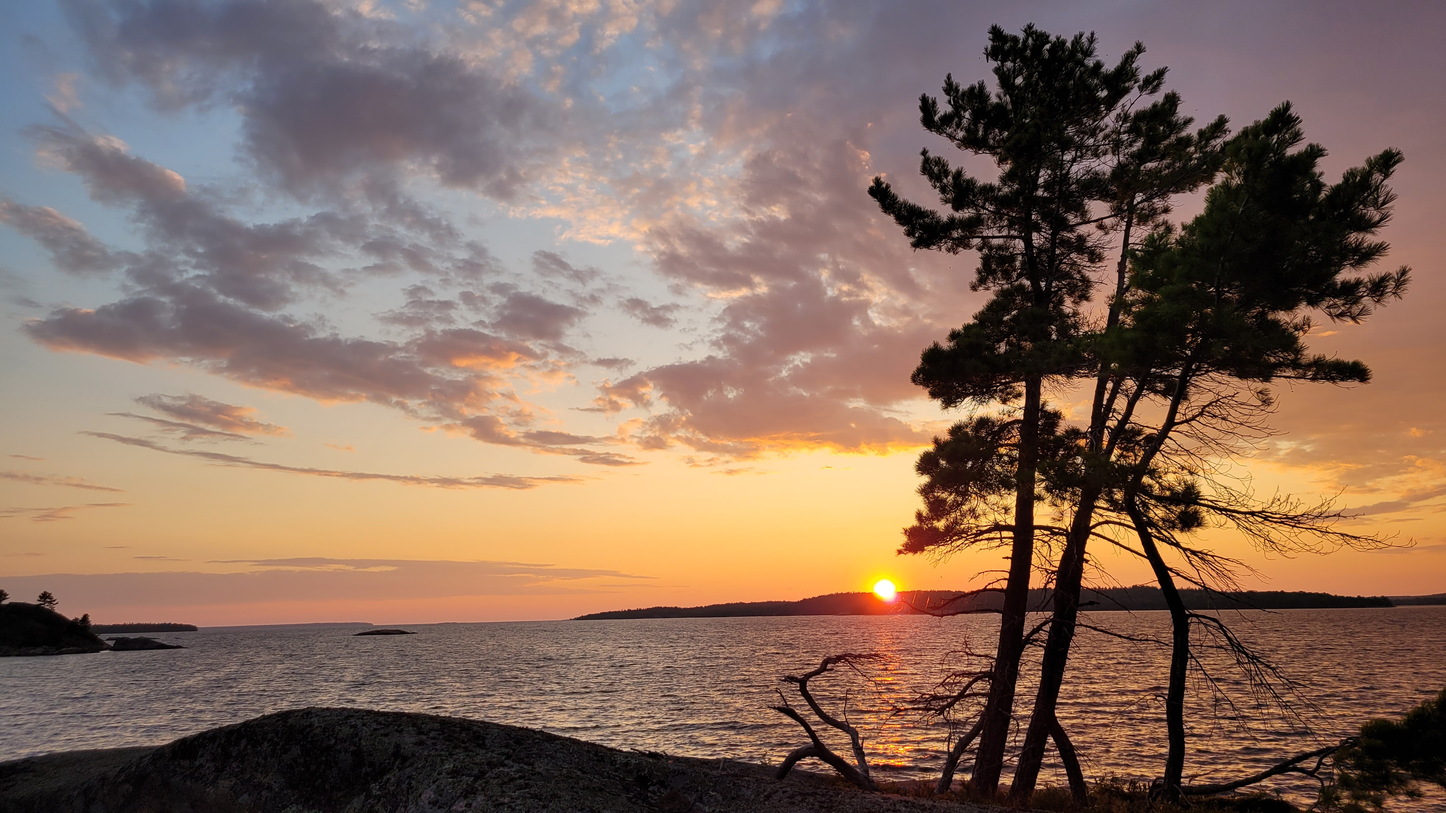
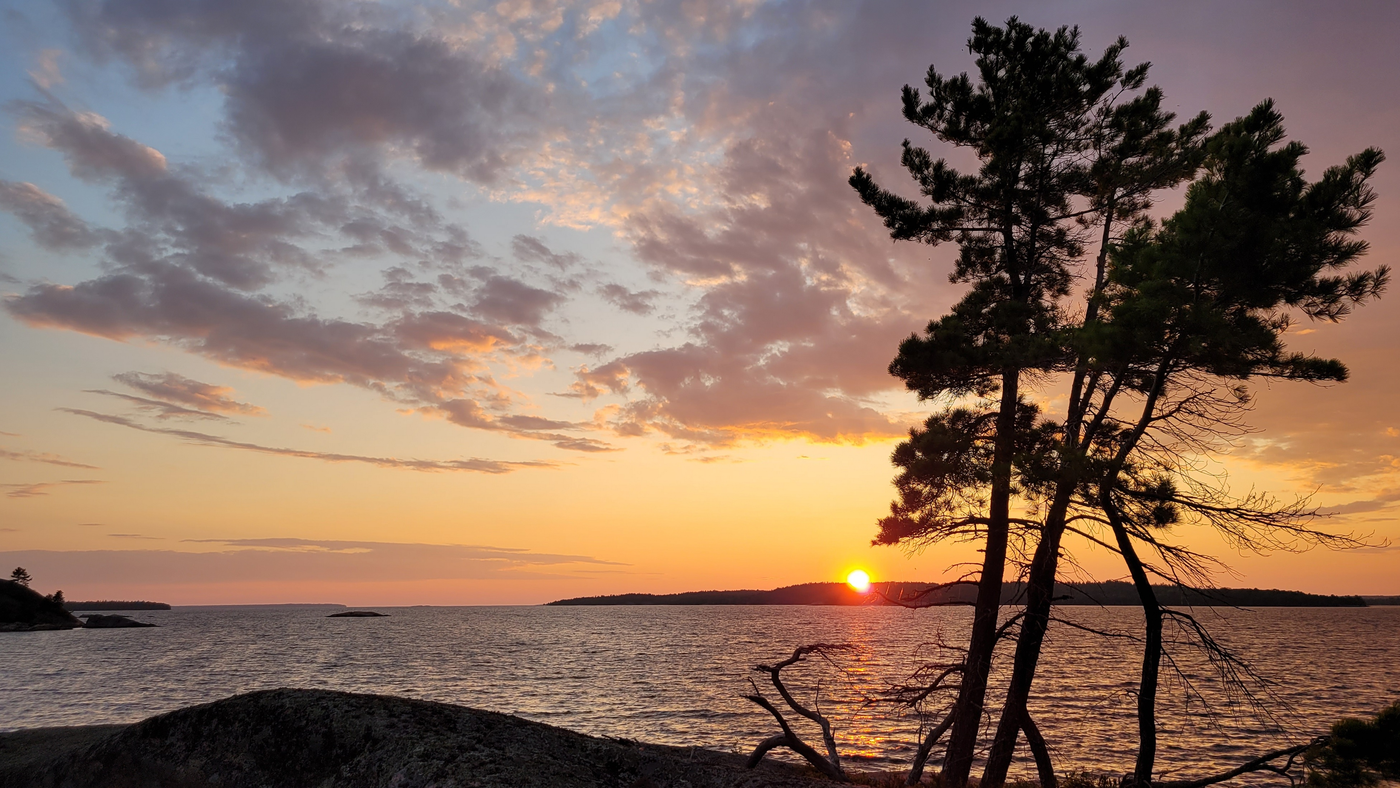
benjis 2023 ch 9

diff --git a/styles/expeditions.css b/styles/expeditions.css
@@ -184,52 +184,52 @@ body {
 .image-five {
     background-image: url("../images/trips/Sunset night 2.jpg");
 }
+
 /*
 CHAPTER DIVIDER IMAGE
 */
-.image-divider{
-    position:relative;
-    display:flex;
-    justify-content:center;
-    align-items:center;
-    height:100vh;
-    background-size:cover;
-    background-position:center;
-    background-attachment:fixed;
-    overflow:hidden;
+.image-divider {
+    position: relative;
+    display: flex;
+    justify-content: center;
+    align-items: center;
+    height: 100vh;
+    background-size: cover;
+    background-position: center;
+    background-attachment: fixed;
+    overflow: hidden;
 }
 
-.divider-overlay{
-    text-align:center;
-    padding:50px;
-    max-width:900px;
-    color:white;
+.divider-overlay {
+    text-align: center;
+    padding: 50px;
+    max-width: 900px;
+    color: white;
     text-shadow:
-        0 2px 8px rgba(0,0,0,.8);
-    animation:fadeIn 1.2s ease;
-    position:relative;
-    z-index:2;
+        0 2px 8px rgba(0, 0, 0, .8);
+    animation: fadeIn 1.2s ease;
+    position: relative;
+    z-index: 2;
 }
 
-.divider-overlay h2{
-    margin:0;
-    font-family:"annie use your telescope", serif;
-    font-size:clamp(2.5rem,5vw,5rem);
-    font-weight:400;
-    line-height:1.3;
-    font-style:italic;
+.divider-overlay h2 {
+    margin: 0;
+    font-family: "annie use your telescope", serif;
+    font-size: clamp(2.5rem, 5vw, 5rem);
+    font-weight: 400;
+    line-height: 1.3;
+    font-style: italic;
 }
-.image-divider::before{
-    content:"";
-    position:absolute;
-    inset:0;
+
+.image-divider::before {
+    content: "";
+    position: absolute;
+    inset: 0;
     background:
-        linear-gradient(
-            rgba(0,0,0,.20),
-            rgba(0,0,0,.35),
-            rgba(0,0,0,.20)
-        );
-    z-index:1;
+        linear-gradient(rgba(0, 0, 0, .20),
+            rgba(0, 0, 0, .35),
+            rgba(0, 0, 0, .20));
+    z-index: 1;
 }
 
 
@@ -449,32 +449,34 @@ blockquote {
     margin-left: 10%;
     margin-right: auto;
 }
- @media (max-width: 768px){
+
+@media (max-width: 768px) {
     .planning-map {
         margin: 0;
         width: 100%;
     }
 }
 
-.embedded-image img{
+.embedded-image img {
     border-radius: 22px;
     width: 100%;
     margin-top: 30px;
 }
+
 /*=========================================================
   EMBEDDED VIDEOS
 =========================================================*/
-.embedded-video{
+.embedded-video {
     width: 100%;
 }
 
-.embedded-video iframe{
+.embedded-video iframe {
     width: 60%;
-    aspect-ratio:16 / 9;
+    aspect-ratio: 16 / 9;
     margin-left: 20%;
 }
 
-@media (max-width: 768px){
+@media (max-width: 768px) {
     .embedded-video iframe {
         width: 96%;
         margin-left: 2%;
@@ -746,29 +748,31 @@ TEXT
     font-family: "Permanent Marker", cursive;
 }
 
-.quote, .quote p {
-    font-size: 2.5rem !important;
+.quote,
+.quote p {
+    font-size: 1.5rem !important;
     font-style: italic;
     text-align: center;
     font-family: 'Rock salt';
 }
 
- /*=========================================
+
+/*=========================================
 SCROLL REVEAL ANIMATION
 =========================================*/
 
-.reveal-animation{
-opacity:0;
-transform:translateY(60px);
-transition:
-opacity .9s ease,
-transform .9s ease;
-will-change:opacity,transform;
+.reveal-animation {
+    opacity: 0;
+    transform: translateY(60px);
+    transition:
+        opacity .9s ease,
+        transform .9s ease;
+    will-change: opacity, transform;
 }
 
-.reveal-animation.visible{
-opacity:1;
-transform:translateY(0);
+.reveal-animation.visible {
+    opacity: 1;
+    transform: translateY(0);
 }
 
 /*=========================================
@@ -797,30 +801,30 @@ MOBILE
 }
 
 /*   CHAPTER 8 SUNSETS */
-.photo-gallery.three-up{
-display:grid;
-grid-template-columns:repeat(auto-fit,minmax(280px,1fr));
-gap:1.5rem;
-margin:3rem 0;
+.photo-gallery.three-up {
+    display: grid;
+    grid-template-columns: repeat(auto-fit, minmax(280px, 1fr));
+    gap: 1.5rem;
+    margin: 3rem 0;
 }
 
-.photo-gallery figure{
-margin:0;
-overflow:hidden;
-border-radius:14px;
-box-shadow:0 18px 40px rgba(0,0,0,.35);
+.photo-gallery figure {
+    margin: 0;
+    overflow: hidden;
+    border-radius: 14px;
+    box-shadow: 0 18px 40px rgba(0, 0, 0, .35);
 }
 
-.photo-gallery img{
-display:block;
-width:100%;
-height:100%;
-object-fit:cover;
-transition:transform .6s ease;
+.photo-gallery img {
+    display: block;
+    width: 100%;
+    height: 100%;
+    object-fit: cover;
+    transition: transform .6s ease;
 }
 
-.photo-gallery figure:hover img{
-transform:scale(1.03);
+.photo-gallery figure:hover img {
+    transform: scale(1.03);
 }
 
 
@@ -828,15 +832,16 @@ transform:scale(1.03);
 /* CHAPTER 9 */
 /* ===================================== */
 
-.island-revealed-chapter{
-    position:relative;
-    background-image:url("../images/gallery/benjis/4.jpg");
-    background-size:cover;
-    background-position:center;
-    background-repeat:no-repeat;
-    background-attachment:fixed;
-    padding:140px 0 220px;
+.island-revealed-chapter {
+    position: relative;
+    background-image: url("../images/gallery/benjis/4.jpg");
+    background-size: cover;
+    background-position: center;
+    background-repeat: no-repeat;
+    background-attachment: fixed;
+    padding: 140px 0 220px;
 }
+
 
 .island-revealed-chapter h2 {
     font-family: "Permanent Marker", cursive;
@@ -858,37 +863,44 @@ transform:scale(1.03);
     padding-left: 6dvw;
 }
 
-.island-story-panel{
+.island-story-panel {
     width: 90%;
-    margin:0 auto;
+    margin: 0 auto;
     background: linear-gradient(to bottom, #000000, #282828, #000000);
-    backdrop-filter:blur(10px);
-    border:1px solid rgba(255,255,255,.15);
-    border-radius:20px;
-    padding:70px;
-    color:#f2f2f2;
-    box-shadow:0 20px 60px rgba(0,0,0,.45);
+    backdrop-filter: blur(10px);
+    border: 1px solid rgba(255, 255, 255, .15);
+    border-radius: 20px;
+    padding: 70px;
+    color: #f2f2f2;
+    box-shadow: 0 20px 60px rgba(0, 0, 0, .45);
 }
 
-.island-story-panel p{
-    margin-bottom:1.7rem;
+@media (max-width: 768px) {
+    .island-story-panel {
+        padding-left: 10px;
+        padding-right: 10px;
+    }
 }
 
-.island-story-panel .lead{
-    font-size:1.35rem;
+.island-story-panel p {
+    margin-bottom: 1.7rem;
 }
 
-.island-story-panel .large-text{
-    text-align:center;
-    font-size:clamp(1.7rem,2.8vw,2.6rem);
-    margin:3rem auto;
-    max-width:700px;
+.island-story-panel .lead {
+    font-size: 1.35rem;
 }
 
-.island-story-panel blockquote{
-    margin:5rem auto;
-    max-width:700px;
-    text-align:center;
+.island-story-panel .large-text {
+    text-align: center;
+    font-size: clamp(1.7rem, 2.8vw, 2.6rem);
+    margin: 3rem auto;
+    max-width: 700px;
+}
+
+.island-story-panel blockquote {
+    margin: 5rem auto;
+    max-width: 700px;
+    text-align: center;
     font-family: 'rock salt';
 }
 
@@ -896,19 +908,25 @@ transform:scale(1.03);
     width: 100%;
 }
 
+@media (max-width: 768px) {
+    .chapter9-photo {
+        width: 100%;
+    }
+}
+
 /*  CHAPTER 10 */
 .chapter-break-2 {
     height: 50dvh;
 }
 
-.action-sequence{
-font-size:clamp(1.4rem,2vw,2rem);
-font-weight:600;
-text-align:center;
-margin:1.2rem 0;
-letter-spacing:.08em;
-color:#f5f5f5;
-opacity:.95;
+.action-sequence {
+    font-size: clamp(1.4rem, 2vw, 2rem);
+    font-weight: 600;
+    text-align: center;
+    margin: 1.2rem 0;
+    letter-spacing: .08em;
+    color: #f5f5f5;
+    opacity: .95;
 }
 
 .white-text {
